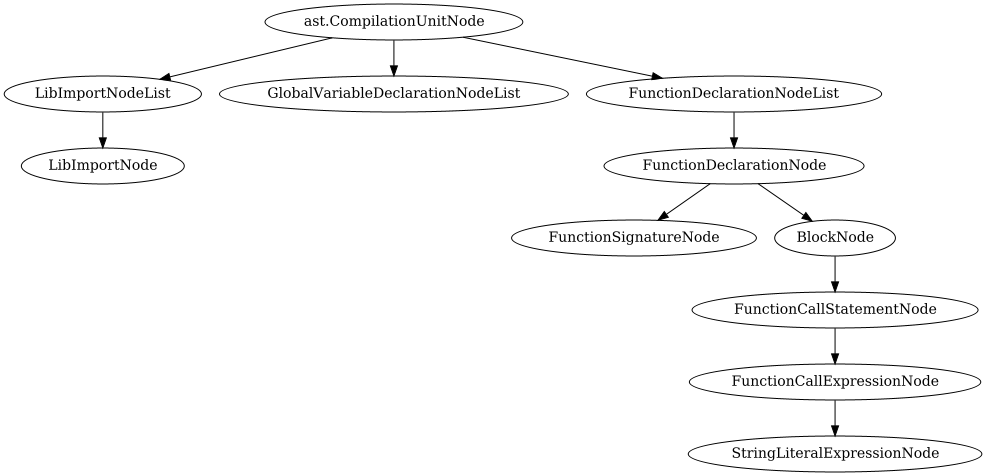
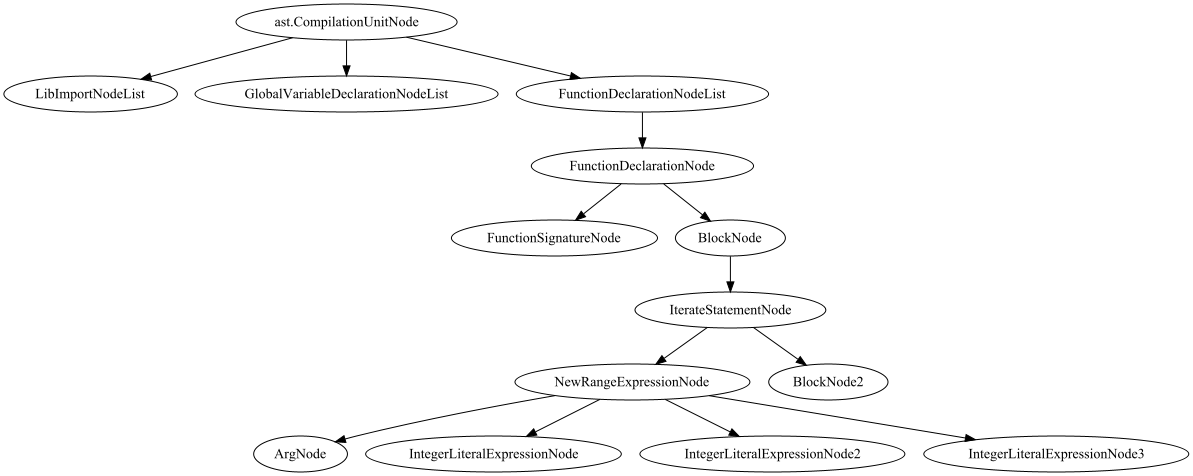
Iterate statement-forward reverse for loop added

diff --git a/src/main/java/app/MainAppDemo.java b/src/main/java/app/MainAppDemo.java
@@ -26,7 +26,7 @@ public class MainAppDemo {
 
     public static void main(String[] args) throws Exception {
 
-        String filePath = "Samples/sample4.simply";
+        String filePath = "Samples/sample2.simply";
         ParseTree tree = getParseTree(filePath);
 
         List<String> errors = new ArrayList<>();
@@ -56,7 +56,7 @@ public class MainAppDemo {
 
         // Semantics analyzing
         var semanticAnalyzerPassVisitor = new NewSemanticAnalyzerPassVisitor(simplyErrorList, sfm);
-        astRoot.accept(semanticAnalyzerPassVisitor);
+        //astRoot.accept(semanticAnalyzerPassVisitor);
 
         //SemanticAnalyzerPassVisitor semanticAnalyzerPassVisitor = new SemanticAnalyzerPassVisitor(userDefinedFunctionList);
         //astRoot.accept(semanticAnalyzerPassVisitor);

diff --git a/src/main/java/passes/transpiler/OriginalTranspiler.java b/src/main/java/passes/transpiler/OriginalTranspiler.java
@@ -642,11 +642,16 @@ public class OriginalTranspiler extends BaseAstVisitor<String> {
         st.add("controlVar", controlVarName);
         st.add("start", startVal);
         st.add("end", endVal);
+        if(Integer.parseInt(startVal) < Integer.parseInt(endVal)) {
+            st.add("isReverse", false);
+        } else {
+            st.add("isReverse", true);
+        }
         if(Integer.parseInt(stepVal) > 0) {
-            st.add("isPos", true);
+            st.add("isPositive", true);
             st.add("stepVal", stepVal);
         } else {
-            st.add("isPos", false);
+            st.add("isPositive", false);
             st.add("stepVal", java.lang.Math.abs(Integer.parseInt(stepVal)));
         }
         return st.render();
